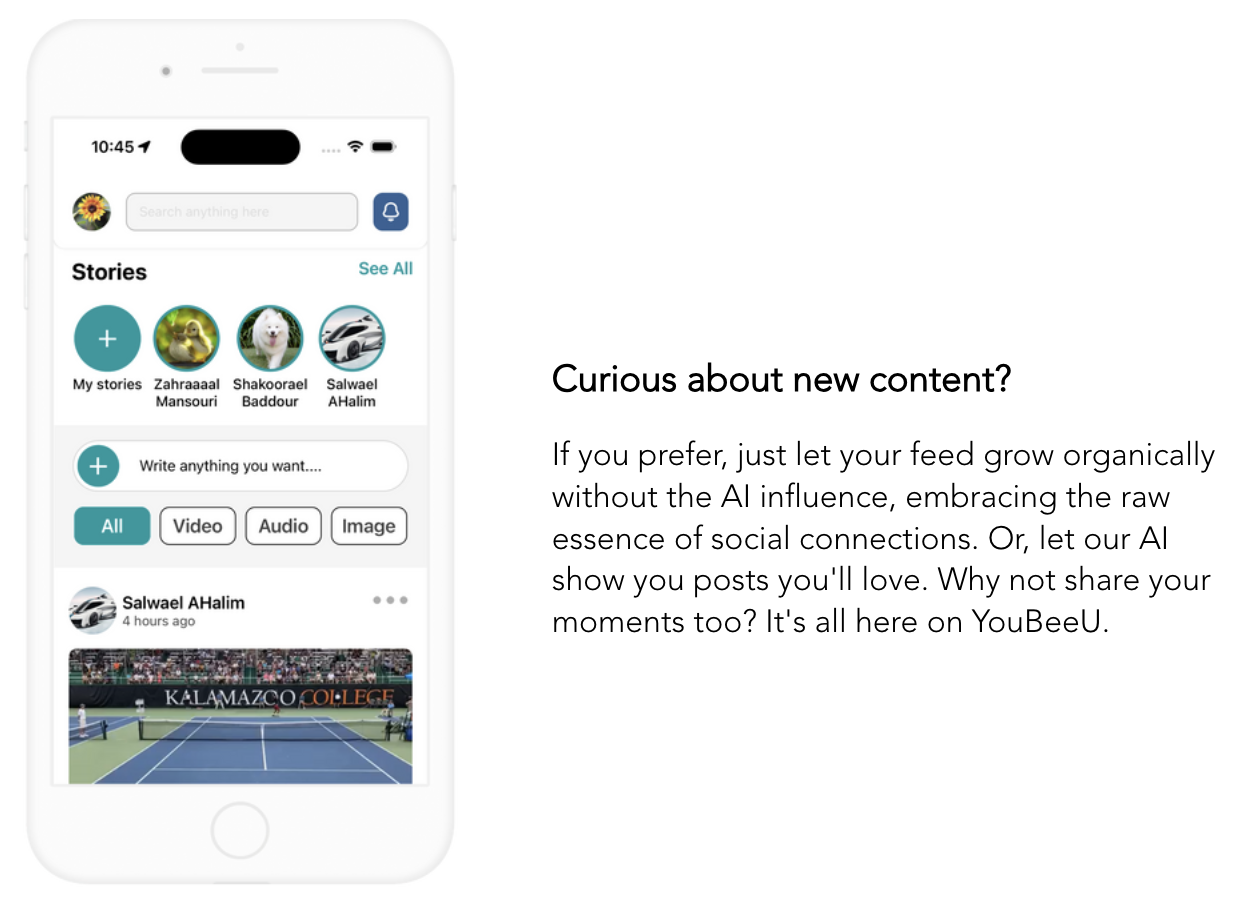
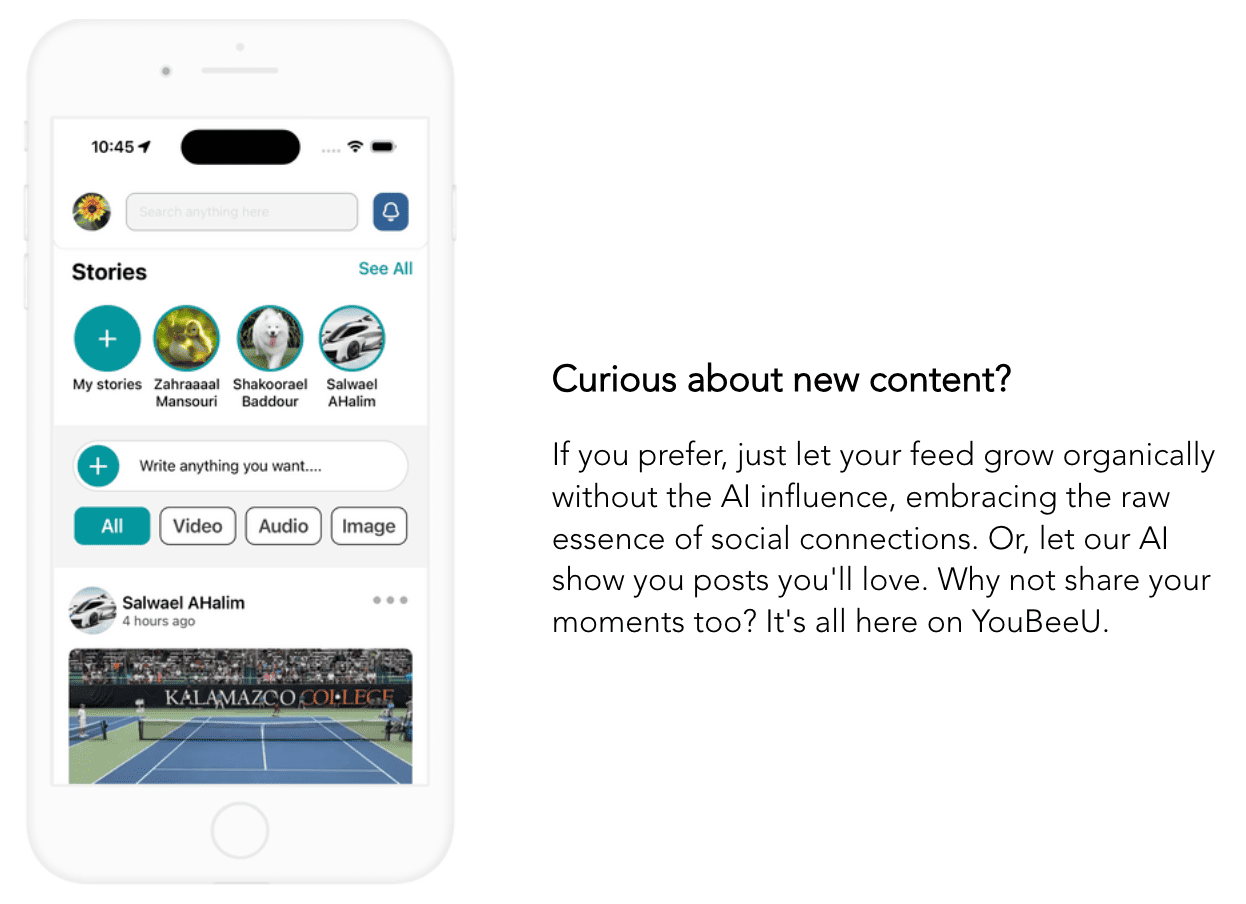
Optimize images size

Changed region(s): [[0.061, 0.3407, 0.244, 0.4336], [0.061, 0.4956, 0.122, 0.6195], [0.061, 0.2168, 0.0915, 0.2478]]

diff --git a/app/projects.ts b/app/projects.ts
@@ -1,15 +1,15 @@
-const wasset = "images/wasset.png";
-const youbu = "images/portfolio6.png";
-const ancestry = "images/ancestry.png";
-const crisper = "images/crisper.jpg";
-const portfolio4 = "images/portfolio4.jpg";
-const moneyManagement = "images/money-management.png";
-const portfolio3 = "images/portfolio3.jpg";
-const portfolio5 = "images/portfolio5.jpeg";
-const portfolio7 = "images/portfolio7.png";
-const portfolio8 = "images/portfolio8.png";
-const portfolio9 = "images/portfolio9.png";
-const gamehub = "images/gamehub.png";
+import wasset from "../public/images/wasset.png";
+import youbu from "../public/images/portfolio6.png";
+import ancestry from "../public/images/ancestry.png";
+import crisper from "../public/images/crisper.jpg";
+import portfolio4 from "../public/images/portfolio4.jpg";
+import moneyManagement from "../public/images/money-management.png";
+import portfolio3 from "../public/images/portfolio3.jpg";
+import portfolio5 from "../public/images/portfolio5.jpeg";
+import portfolio7 from "../public/images/portfolio7.png";
+import portfolio8 from "../public/images/portfolio8.png";
+import portfolio9 from "../public/images/portfolio9.png";
+import gamehub from "../public/images/gamehub.png";
 
 const projects = [
 	{

diff --git a/app/component/ProjectCard.tsx b/app/component/ProjectCard.tsx
@@ -1,9 +1,11 @@
 import { FontAwesomeIcon } from "@fortawesome/react-fontawesome";
 import { faAngleRight } from "@fortawesome/free-solid-svg-icons";
+import Image from "next/image";
+import { StaticImport } from "next/dist/shared/lib/get-img-props";
 
 interface Props {
 	project: {
-		image: string;
+		image: StaticImport;
 		title: string;
 		isArabic?: boolean;
 		description: string;
@@ -14,15 +16,15 @@ const ProjectCard = ({ project }: Props) => {
 	return (
 		<div className="item">
 			<div className="card shadow mb-4">
-				<img
-					src={project.image}
+				<Image
+					src={project?.image}
 					className="card-img-top"
 					alt="project image"
 					style={project.title == "Ancestry App" ? { objectFit: "contain" } : {}}
 				/>
 				<div className="card-body">
 					<h3 className={project.isArabic ? "card-title ar-text" : "card-title"}>{project.title}</h3>
-					<p className="card-text">{project.description}</p>
+					<p className="m-0">{project.description}</p>
 					<a href={project.url} className="btn my-btn-primary" target="_blank">
 						<span>Show Project</span>
 						<FontAwesomeIcon icon={faAngleRight} />

diff --git a/app/component/PageLoading.tsx b/app/component/PageLoading.tsx
@@ -14,23 +14,23 @@ declare global {
 const PageLoading = () => {
 	const [isLoading, setIsLoading] = useState(true);
 
+	const handleLoad = () => {
+		setIsLoading(false);
+		document.documentElement.style.overflowY = "auto";
+
+		// initial AOS library
+		AOS.init({
+			delay: 40,
+			duration: 1200,
+			easing: "ease-in-out",
+		});
+
+		// Make jQuery globally available
+		window.$ = $;
+		window.jQuery = $;
+	};
+
 	useEffect(() => {
-		const handleLoad = () => {
-			setIsLoading(false);
-			document.documentElement.style.overflowY = "auto";
-
-			// initial AOS library
-			AOS.init({
-				delay: 40,
-				duration: 1200,
-				easing: "ease-in-out",
-			});
-
-			// Make jQuery globally available
-			window.$ = $;
-			window.jQuery = $;
-		};
-
 		// Case 1: Document already loaded
 		if (document.readyState === "complete") {
 			handleLoad();
@@ -42,7 +42,7 @@ const PageLoading = () => {
 		const timeout = setTimeout(() => {
 			console.warn("Fallback timeout hit, forcing loader off.");
 			handleLoad();
-		}, 5000);
+		}, 1000);
 
 		return () => {
 			clearTimeout(timeout); // cleanup timeout

diff --git a/app/component/Header.tsx b/app/component/Header.tsx
@@ -1,5 +1,7 @@
 "use client"
 import { useEffect, useRef, useState } from "react";
+import Image from "next/image";
+import logo from "../../public/images/logo.svg";
 
 const Header = () => {
 	const [openMenu, setOpenMenu] = useState(false);
@@ -20,7 +22,7 @@ const Header = () => {
 		<header className="header shadow py-3" data-aos="fade-down">
 			<div className="container">
 				<a href="#top" style={{ height: "30px" }}>
-					<img src="images/logo.svg" alt="Logo" className="logo" />
+					<Image src={logo} alt="Logo" width="43" />
 				</a>
 				<div className="links-lg d-none d-md-block">
 					<ul className="navbar-nav d-flex flex-row gap-4">

diff --git a/app/component/Contact.tsx b/app/component/Contact.tsx
@@ -1,3 +1,6 @@
+import Image from "next/image";
+import personBlue from "../../public/images/person-blue-shirt.png";
+
 const Contact = () => {
 	return (
 		<section className="contact" id="contact">
@@ -10,7 +13,7 @@ const Contact = () => {
 				</p>
 				<div className="contact-container" data-aos="zoom-in">
 					<div className="main">
-						<img src="images/person-blue-shirt.png" alt="." />
+						<Image src={personBlue} alt="." />
 						<div>
 							<h1>Ghaith Atfeh</h1>
 							<p>Full Stack Developer</p>

diff --git a/app/globals.css b/app/globals.css
@@ -161,10 +161,6 @@ h3 {
 	align-items: center;
 }
 
-.header .logo {
-	width: 43px;
-}
-
 .header .links {
 	position: relative;
 	cursor: pointer;
@@ -419,7 +415,6 @@ h3 {
 	line-height: 1.6;
 }
 
-/* تظبيط الصورة */
 .services-container .image img {
 	width: 260px;
 	position: relative;

diff --git a/app/component/Hero.tsx b/app/component/Hero.tsx
@@ -1,11 +1,4 @@
-"use client";
-
-// import { useEffect } from "react";
-
 const Hero = () => {
-	// useEffect(() => {
-	// 	console.log("sd");
-	// }, []);
 	return (
 		<section className="landing">
 			<div className="intro-text">
